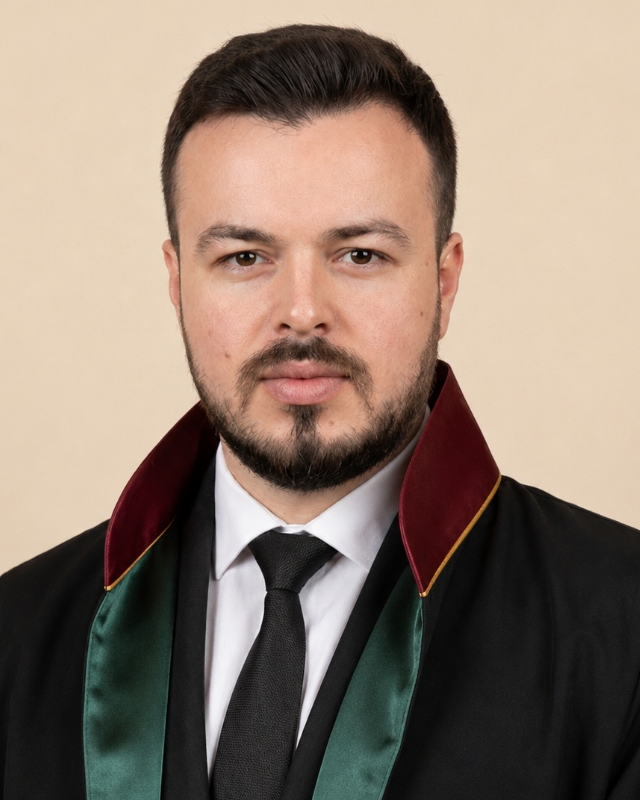
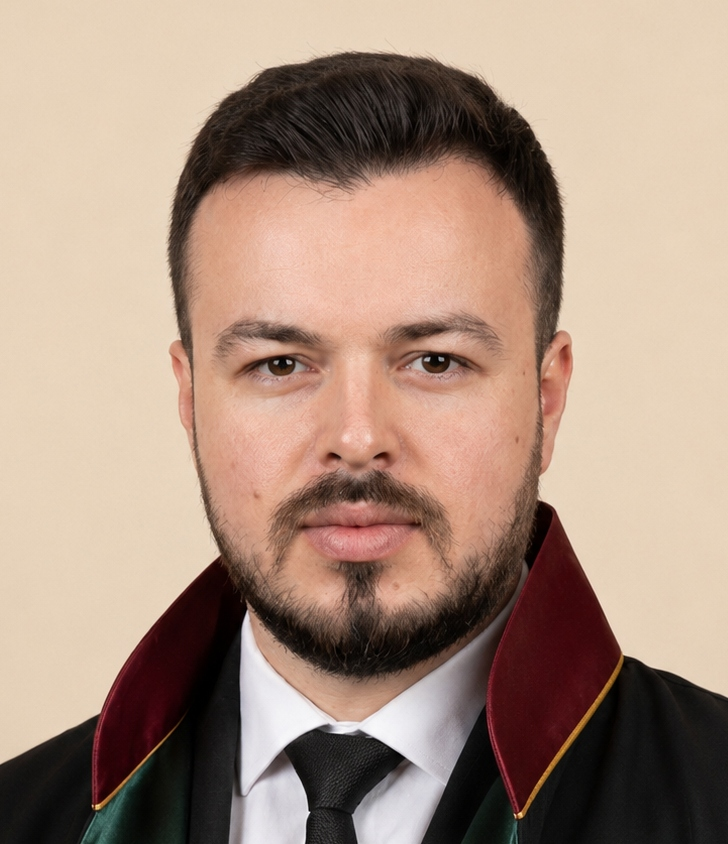
Ana sayfa ekip karti aciklamasi kisaltildi

diff --git a/src/data/team.js b/src/data/team.js
@@ -5,7 +5,8 @@ export const team = [
     title: 'Kurucu Ortak',
     role: 'founder',
     image: '/images/lawyer1.png',
-    shortBio: 'Sakarya doğumludur. Lisans eğitimini İstanbul Medeniyet Üniversitesi Hukuk Fakültesi\'nde tamamlamıştır. Üniversite ve meslek hayatı boyunca birçok sivil toplum kuruluşu, kulüp yöneticiliği ve hukuk konferanslarında konuşmacı olarak yer almıştır. İstanbul\'da kurumsal hukuk bürolarında edindiği tecrübenin ardından Sakarya\'da MAT & ALPGÜL Hukuk Danışmanlık bürosunu kurmuştur. Ağırlıklı olarak Ceza Hukuku, Aile Hukuku, Gayrimenkul Hukuku ve Şirketler Hukuku alanlarında hukuki danışmanlık ve dava takibi hizmeti sunmaktadır.',
+    shortBio: 'İstanbul Medeniyet Üniversitesi Hukuk Fakültesi mezunudur. Kurumsal hukuk bürolarındaki tecrübesinin ardından Sakarya\'da MAT & ALPGÜL Hukuk Danışmanlık bürosunu kurmuştur.',
+    bio: 'Sakarya doğumludur. Lisans eğitimini İstanbul Medeniyet Üniversitesi Hukuk Fakültesi\'nde tamamlamıştır. Üniversite ve meslek hayatı boyunca birçok sivil toplum kuruluşu, kulüp yöneticiliği ve hukuk konferanslarında konuşmacı olarak yer almıştır. İstanbul\'da kurumsal hukuk bürolarında edindiği tecrübenin ardından Sakarya\'da MAT & ALPGÜL Hukuk Danışmanlık bürosunu kurmuştur. Ağırlıklı olarak Ceza Hukuku, Aile Hukuku, Gayrimenkul Hukuku ve Şirketler Hukuku alanlarında hukuki danışmanlık ve dava takibi hizmeti sunmaktadır.',
     expertise: ['Ceza Hukuku', 'Aile Hukuku', 'Gayrimenkul Hukuku', 'Şirketler Hukuku'],
     education: [
       'İstanbul Medeniyet Üniversitesi Hukuk Fakültesi (Lisans - 2021)'
@@ -22,6 +23,7 @@ export const team = [
     role: 'founder',
     image: '/images/lawyer2.png',
     shortBio: 'Özgeçmiş bilgileri güncellenmektedir.',
+    bio: 'Özgeçmiş bilgileri güncellenmektedir.',
     expertise: ['Aile Hukuku', 'Gayrimenkul Hukuku', 'Bilişim / KVKK Hukuku', 'İcra ve İflas Hukuku'],
     education: [
       'Hukuk Fakültesi - Lisans'
@@ -38,6 +40,7 @@ export const team = [
     role: 'assistant',
     image: null,
     shortBio: 'MAT & ALPGÜL Hukuk Bürosu bünyesinde Asistan olarak çalışmalarına devam etmektedir.',
+    bio: 'MAT & ALPGÜL Hukuk Bürosu bünyesinde Asistan olarak çalışmalarına devam etmektedir.',
     expertise: ['Hukuki Araştırma', 'Süreç Takibi', 'Bilişim ve KVKK'],
     education: [],
     experience: 'Asistan',

diff --git a/src/components/home/TeamPreview.jsx b/src/components/home/TeamPreview.jsx
@@ -90,7 +90,7 @@ export default function TeamPreview() {
                 {team[0].name}
               </h3>
 
-              <p className="text-sm text-text-secondary leading-relaxed mb-6">
+              <p className="text-sm text-text-secondary leading-relaxed mb-6 line-clamp-4">
                 {team[0].shortBio}
               </p>
 
@@ -164,7 +164,7 @@ export default function TeamPreview() {
                 {team[1].name}
               </h3>
 
-              <p className="text-sm text-text-secondary leading-relaxed mb-6">
+              <p className="text-sm text-text-secondary leading-relaxed mb-6 line-clamp-4">
                 {team[1].shortBio}
               </p>
 
@@ -265,7 +265,7 @@ export default function TeamPreview() {
                 </div>
               </div>
 
-              <p className="text-sm text-text-secondary leading-relaxed mb-4">{lawyer.shortBio}</p>
+              <p className="text-sm text-text-secondary leading-relaxed mb-4 line-clamp-4">{lawyer.shortBio}</p>
 
               <div className="pt-3 border-t border-border/40 flex items-center justify-between gap-2">
                 <div className="flex flex-wrap gap-1.5 min-w-0">

diff --git a/src/pages/Team.jsx b/src/pages/Team.jsx
@@ -70,7 +70,7 @@ export default function Team() {
 
                   {/* Info */}
                   <div className="lg:col-span-2 p-8 lg:p-12">
-                    <p className="text-text-secondary leading-relaxed mb-8">{lawyer.shortBio}</p>
+                    <p className="text-text-secondary leading-relaxed mb-8">{lawyer.bio || lawyer.shortBio}</p>
 
                     <div className="grid sm:grid-cols-2 gap-8">
                       <div>

diff --git a/dist/index.html b/dist/index.html
@@ -77,8 +77,8 @@
       "sameAs": []
     }
     </script>
-    <script type="module" crossorigin src="/assets/index-W5EhsaTm.js"></script>
-    <link rel="stylesheet" crossorigin href="/assets/index-dKlID2tg.css">
+    <script type="module" crossorigin src="/assets/index-kXs4CIaG.js"></script>
+    <link rel="stylesheet" crossorigin href="/assets/index-BNdGq1_z.css">
   </head>
   <body>
     <div id="root"></div>
